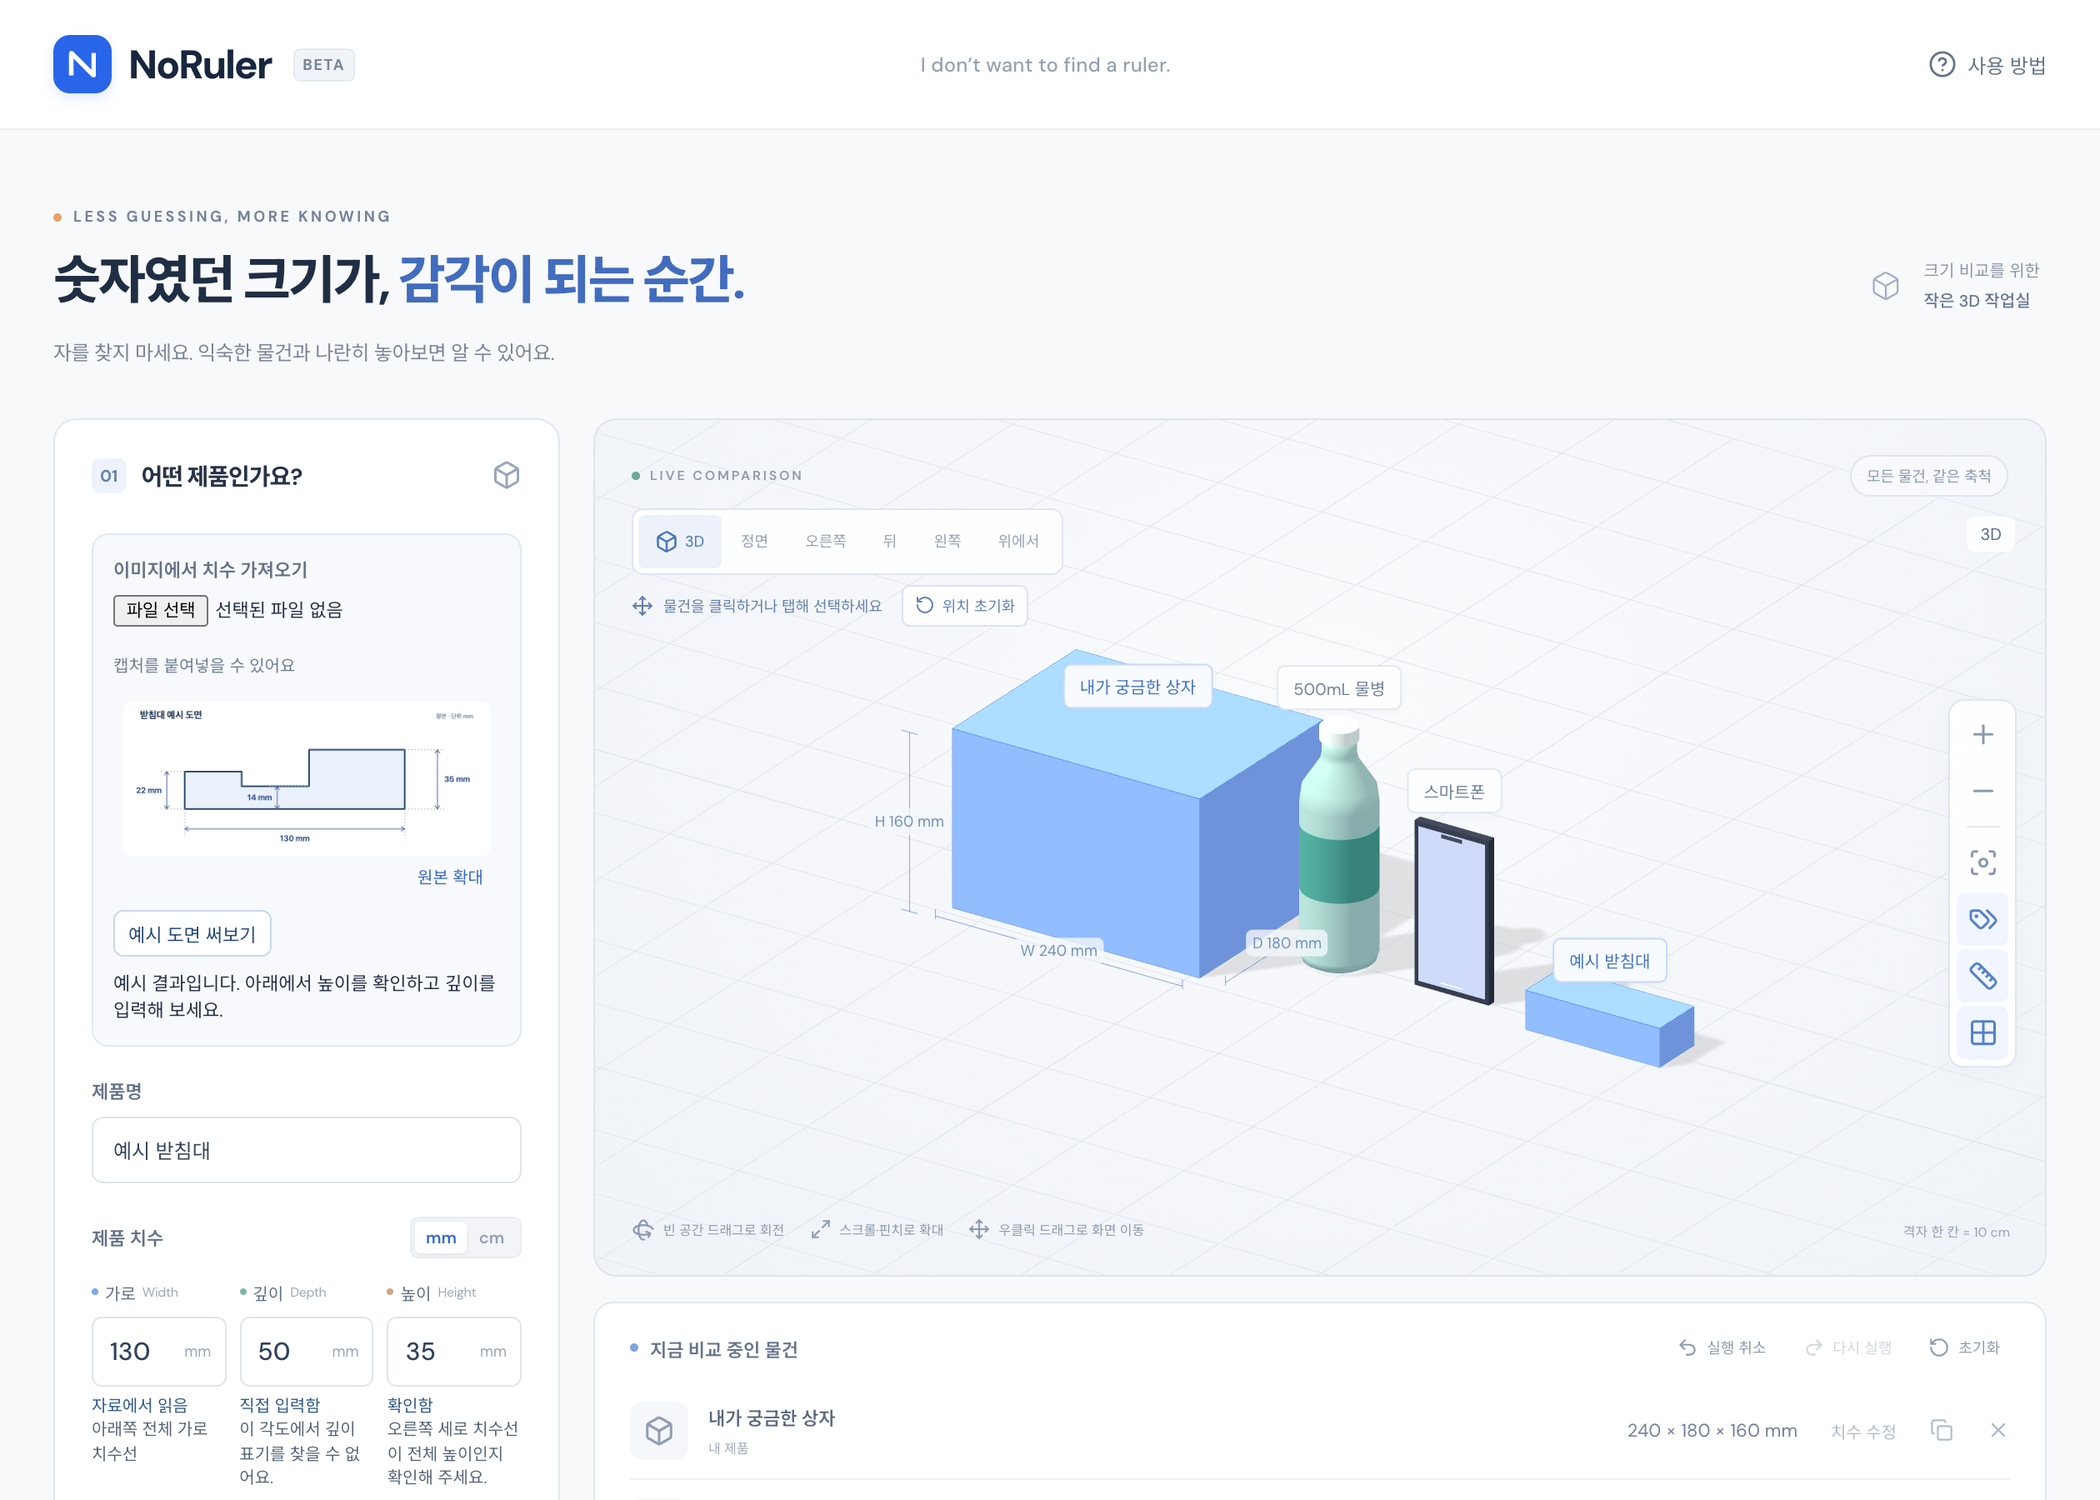
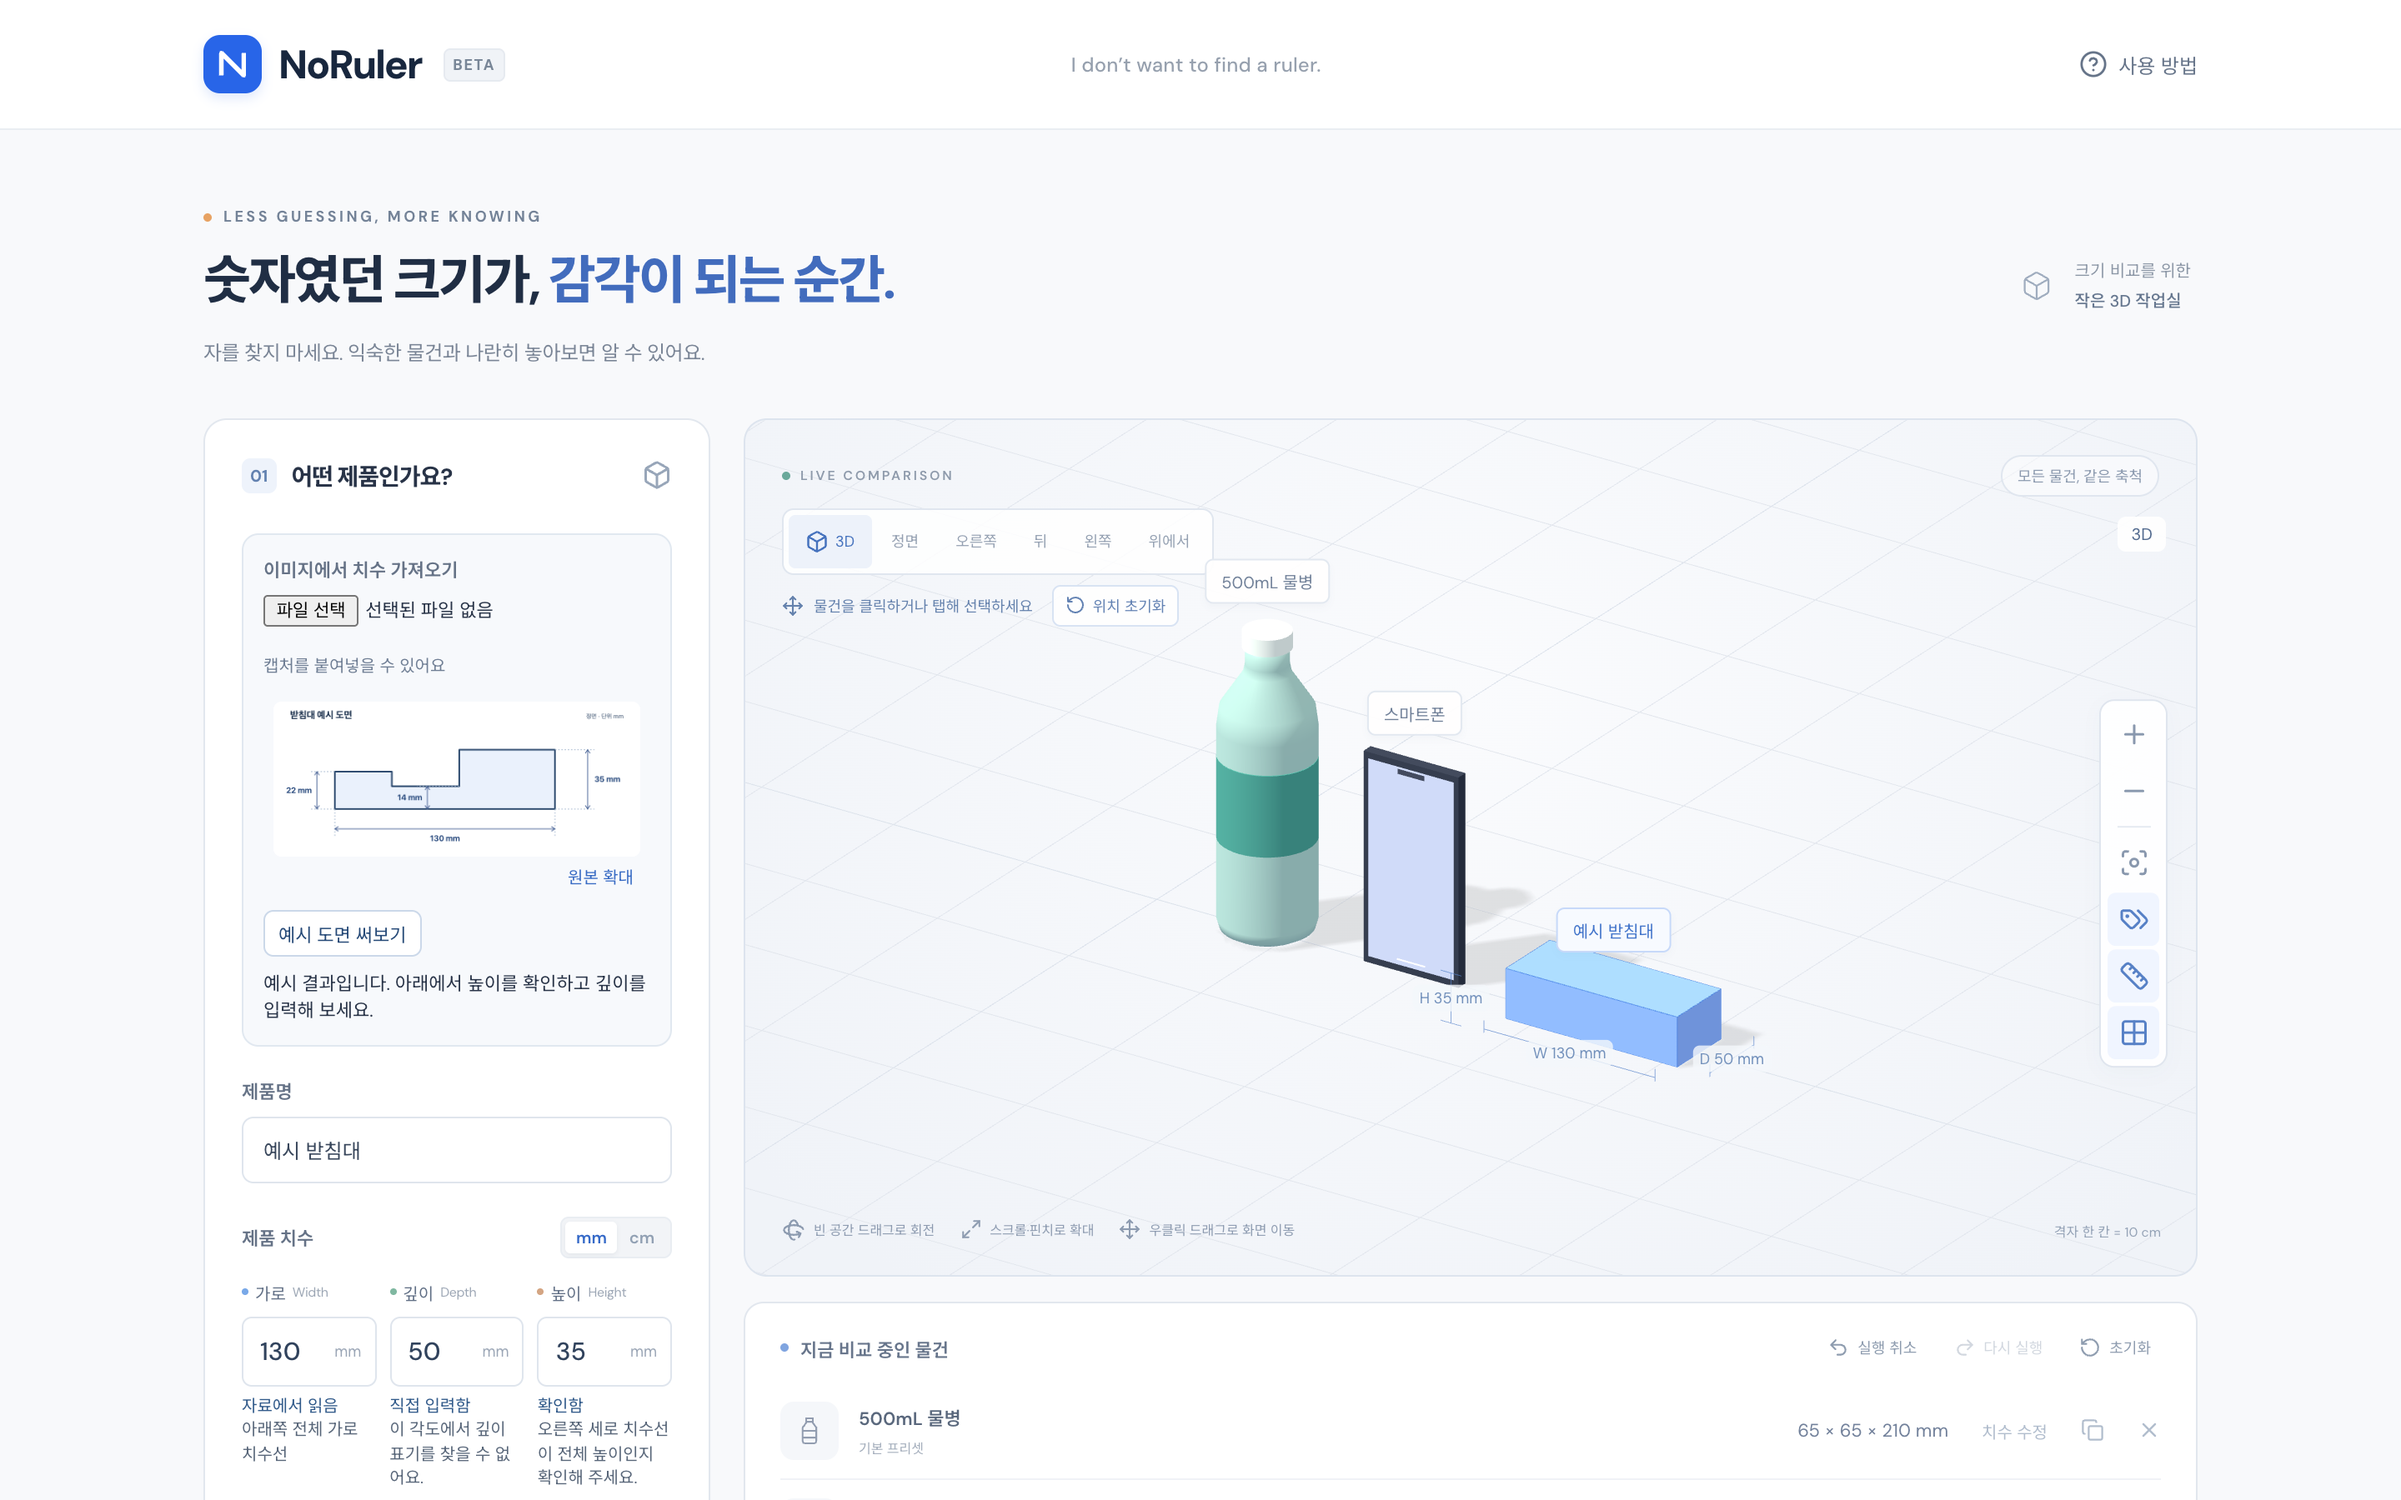
Playwright로 NoRuler 시연 화면 캡처 재현

diff --git a/scripts/screenshots.ts b/scripts/screenshots.ts
@@ -1,0 +1,181 @@
+import { mkdir, writeFile } from 'node:fs/promises';
+import { fileURLToPath } from 'node:url';
+import { chromium, expect } from '@playwright/test';
+import type { Browser, Locator, Page } from '@playwright/test';
+import { createServer } from 'vite';
+import playwrightConfig from '../playwright.config.ts';
+import { normalizeImageAnalysis } from '../src/imageDimensions.ts';
+
+const outputDir = new URL('../docs/images/', import.meta.url);
+const fixture = (name: string) => new URL(`./fixtures/${name}.svg`, import.meta.url);
+const button = (page: Page, name: string) => page.getByRole('button', { name, exact: true });
+const reading = (mm: number, evidence = '사양표 전체 치수') => ({ mm, evidence, needsReview: false });
+const measurement = (axis: string, mm: number, axisLabel?: string) => ({
+  axis, mm, sourceId: 'photo', scope: 'overall',
+  location: axisLabel ? '사양표 크기 행' : '치수선',
+  quote: axisLabel ? `${axisLabel} ${mm} mm` : `${mm} mm`,
+  basis: axisLabel ? 'label' : 'dimension_line',
+});
+
+const standAnalysis = normalizeImageAnalysis({ subjects: [{
+  label: '모니터 받침대',
+  shapeEvidence: { readiness: 'ready', kind: 'other', parts: [] },
+  options: [{
+    label: '기본형',
+    dimensions: { width: reading(500), depth: reading(200), height: reading(82) },
+    measurements: [measurement('width', 500), measurement('height', 82)],
+    embeddedSpecs: [measurement('width', 510, '가로'), measurement('depth', 200, '깊이'), measurement('height', 82, '높이')],
+  }],
+}] });
+
+const deskAnalysis = normalizeImageAnalysis({ subjects: [{
+  label: '흰색 책상',
+  shapeEvidence: {
+    readiness: 'ready', kind: 'cross-braced-desk', view: '앞쪽 사선', unseen: '상판 두께',
+    parts: ['tabletop', 'fourSquareLegs', 'sideStretchers', 'rearCrossBrace'],
+  },
+  options: [[800, 500], [1000, 600], [1200, 600]].map(([width, depth]) => ({
+    label: String(width),
+    dimensions: { width: reading(width), depth: reading(depth), height: reading(740) },
+    clearance: reading(700, '하부 여유 높이'),
+  })),
+}] });
+
+async function openApp(browser: Browser, url: string, mobile = false) {
+  const page = await browser.newPage({
+    viewport: mobile ? { width: 390, height: 844 } : { width: 1440, height: 900 },
+    deviceScaleFactor: mobile ? 1 : 2,
+    isMobile: mobile,
+    hasTouch: mobile,
+  });
+  await page.goto(url);
+  await expect(page.locator('.scene canvas')).toBeVisible();
+  return page;
+}
+
+async function showAnalysis(page: Page, name: string, image: Buffer, analysis: ReturnType<typeof normalizeImageAnalysis>) {
+  await page.route('**/api/image-dimensions', route => route.fulfill({ json: analysis }));
+  await page.locator('#measurement-image').setInputFiles({ name: `${name}.png`, mimeType: 'image/png', buffer: image });
+  await button(page, '이미지 분석').click();
+  await expect(page.getByText(/^선택한 상품 ·/)).toBeVisible();
+}
+
+async function capture(page: Page, target: Page | Locator = page) {
+  await page.evaluate(() => document.fonts.ready);
+  await page.mouse.move(2, 2);
+  return target.screenshot({ animations: 'disabled' });
+}
+
+async function captureDetail(page: Page, first: Locator, last: Locator) {
+  await page.setViewportSize({ width: 1440, height: 1600 });
+  await page.evaluate(async () => {
+    await document.fonts.ready;
+    scrollTo(0, 0);
+  });
+  await page.mouse.move(2, 2);
+  const firstBox = await first.boundingBox();
+  const lastBox = await last.boundingBox();
+  if (!firstBox || !lastBox) throw new Error('Screenshot panels are not visible');
+
+  const left = Math.floor(Math.min(firstBox.x, lastBox.x)) - 6;
+  const right = Math.ceil(Math.max(firstBox.x + firstBox.width, lastBox.x + lastBox.width)) + 6;
+  const top = Math.floor(firstBox.y) - 6;
+  const bottom = Math.ceil(lastBox.y + lastBox.height) + 6;
+  return page.screenshot({
+    animations: 'disabled',
+    clip: { x: left, y: top, width: right - left, height: bottom - top },
+  });
+}
+
+async function takeScreenshots(browser: Browser, url: string) {
+  const assets = await browser.newPage({ viewport: { width: 900, height: 570 } });
+  await assets.goto(fixture('monitor-stand').href);
+  const standImage = await assets.locator('svg').screenshot();
+  await assets.goto(fixture('desk').href);
+  const deskImage = await assets.locator('svg').screenshot();
+  await assets.close();
+
+  const hero = await openApp(browser, url);
+  await button(hero, '예시 도면 써보기').click();
+  await button(hero, '높이 치수 확인').click();
+  await hero.locator('#depth').fill('50');
+  await hero.locator('#product-name').fill('예시 받침대');
+  await button(hero, '3D로 크기 비교하기').click();
+  await expect(hero.locator('.object-row').filter({ hasText: '예시 받침대' })).toContainText('130 × 50 × 35 mm');
+  await button(hero, '내가 궁금한 상자 공간에서 제거').click();
+  await button(hero, '전체 맞춤').click();
+  await hero.evaluate(() => scrollTo(0, 0));
+  const heroImage = await capture(hero);
+  await hero.close();
+
+  const review = await openApp(browser, url);
+  await showAnalysis(review, 'monitor-stand-demo', standImage, standAnalysis);
+  await expect(review.getByText('상품 사진 · 치수선 · 500 mm')).toBeVisible();
+  await expect(review.getByText('상품 사진 · 사양표 크기 행 · 가로 510 mm')).toBeVisible();
+  const reviewImage = await captureDetail(review, review.locator('.dimensions-heading'), review.locator('.measurement-evidence'));
+  await review.close();
+
+  const comparison = await openApp(browser, url);
+  await showAnalysis(comparison, 'desk-demo', deskImage, deskAnalysis);
+  await comparison.getByRole('radio', { name: /^1200 / }).check();
+  await expect(comparison.locator('.desk-preview canvas')).toBeVisible();
+  await expect(comparison.locator('#width')).toHaveValue('1200');
+  const deskPreview = await captureDetail(comparison, comparison.locator('.image-shape-review'), comparison.locator('.size-candidates'));
+
+  await button(comparison, '책상을 비교 공간에 추가').click();
+  await button(comparison, '27인치 모니터 공간에 추가').click();
+  await button(comparison, '키보드 공간에 추가').click();
+  for (const name of ['내가 궁금한 상자', '500mL 물병', '스마트폰']) {
+    await button(comparison, `${name} 공간에서 제거`).click();
+  }
+  await button(comparison, '전체 맞춤').click();
+  const dimensions = button(comparison, '치수 표시');
+  if (await dimensions.getAttribute('aria-pressed') !== 'true') await dimensions.click();
+  await expect(comparison.locator('.dimension-label').first()).toBeVisible();
+  const sceneImage = await capture(comparison, comparison.getByRole('region', { name: '3D 비교 공간' }));
+  await button(comparison, '프리셋 등록').click();
+  const libraryImage = await capture(comparison, comparison.getByRole('region', { name: '내 모델 관리' }));
+  await comparison.close();
+
+  const mobile = await openApp(browser, url, true);
+  await expect(button(mobile, '예시 도면 써보기')).toBeInViewport({ ratio: 1 });
+  const mobileImage = await capture(mobile);
+  await mobile.close();
+
+  return {
+    'hero.png': heroImage,
+    'scene.png': sceneImage,
+    'review.png': reviewImage,
+    'desk.png': deskPreview,
+    'mobile.png': mobileImage,
+    'library.png': libraryImage,
+  };
+}
+
+// Vite gives process environment variables priority over .env.local.
+process.env.GEMINI_API_KEY = '';
+const server = await createServer({ server: { host: '127.0.0.1', port: 5179 } });
+try {
+  await server.listen();
+  const url = server.resolvedUrls?.local[0];
+  if (!url) throw new Error('Vite did not expose a local URL');
+  const launchOptions = playwrightConfig.use?.launchOptions;
+  const browser = await chromium.launch({
+    ...launchOptions,
+    channel: process.env.PLAYWRIGHT_CHANNEL,
+    args: [...(launchOptions?.args ?? []), '--enable-unsafe-swiftshader'],
+  });
+  try {
+    const screenshots = Object.entries(await takeScreenshots(browser, url));
+    for (const [name, image] of screenshots) {
+      if (image.length >= 3_000_000) throw new Error(`${name} exceeds the 3 MB screenshot limit`);
+    }
+    await mkdir(outputDir, { recursive: true });
+    await Promise.all(screenshots.map(([name, image]) => writeFile(new URL(name, outputDir), image)));
+    console.log(`Captured ${screenshots.length} screenshots in ${fileURLToPath(outputDir)}`);
+  } finally {
+    await browser.close();
+  }
+} finally {
+  await server.close();
+}

diff --git a/README.md b/README.md
@@ -159,6 +159,7 @@ npm run test:e2e
 - `npm run build`는 TypeScript 검사와 Vite 프로덕션 빌드를 실행합니다.
 - `npm test`는 단위 변환, 입력 검증, 3D 모델의 외형 치수, 배치 및 분석 응답 처리를 검사합니다. [단위 테스트](src/domain.test.ts)
 - `npm run test:e2e`는 Chromium에서 이미지 검토, 모바일 터치 조작, 배치와 복원을 검사합니다. 위 설치 명령으로 테스트용 Chromium을 먼저 설치합니다. [브라우저 테스트](tests/comparison.spec.ts)
+- `node --experimental-strip-types scripts/screenshots.ts`는 같은 Chromium을 사용해 `docs/images/`의 시연 화면을 다시 캡처합니다. 내장 도면과 시연용 분석 응답을 사용하므로 API 키가 필요 없습니다. [캡처 스크립트](scripts/screenshots.ts)
 
 ## 출처와 크레딧
 
